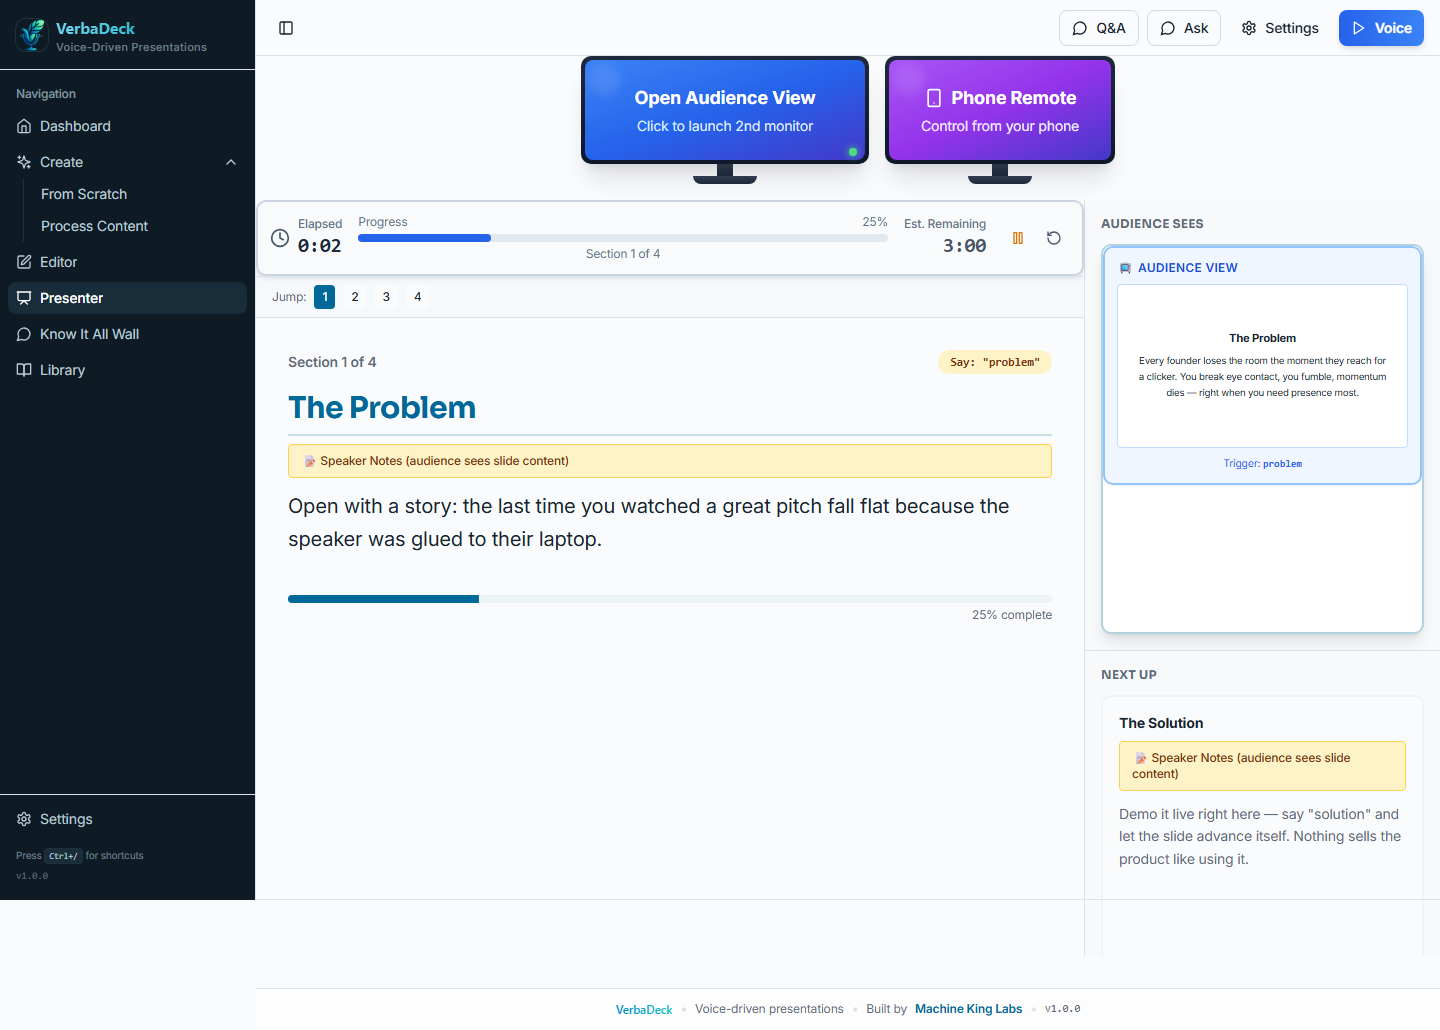
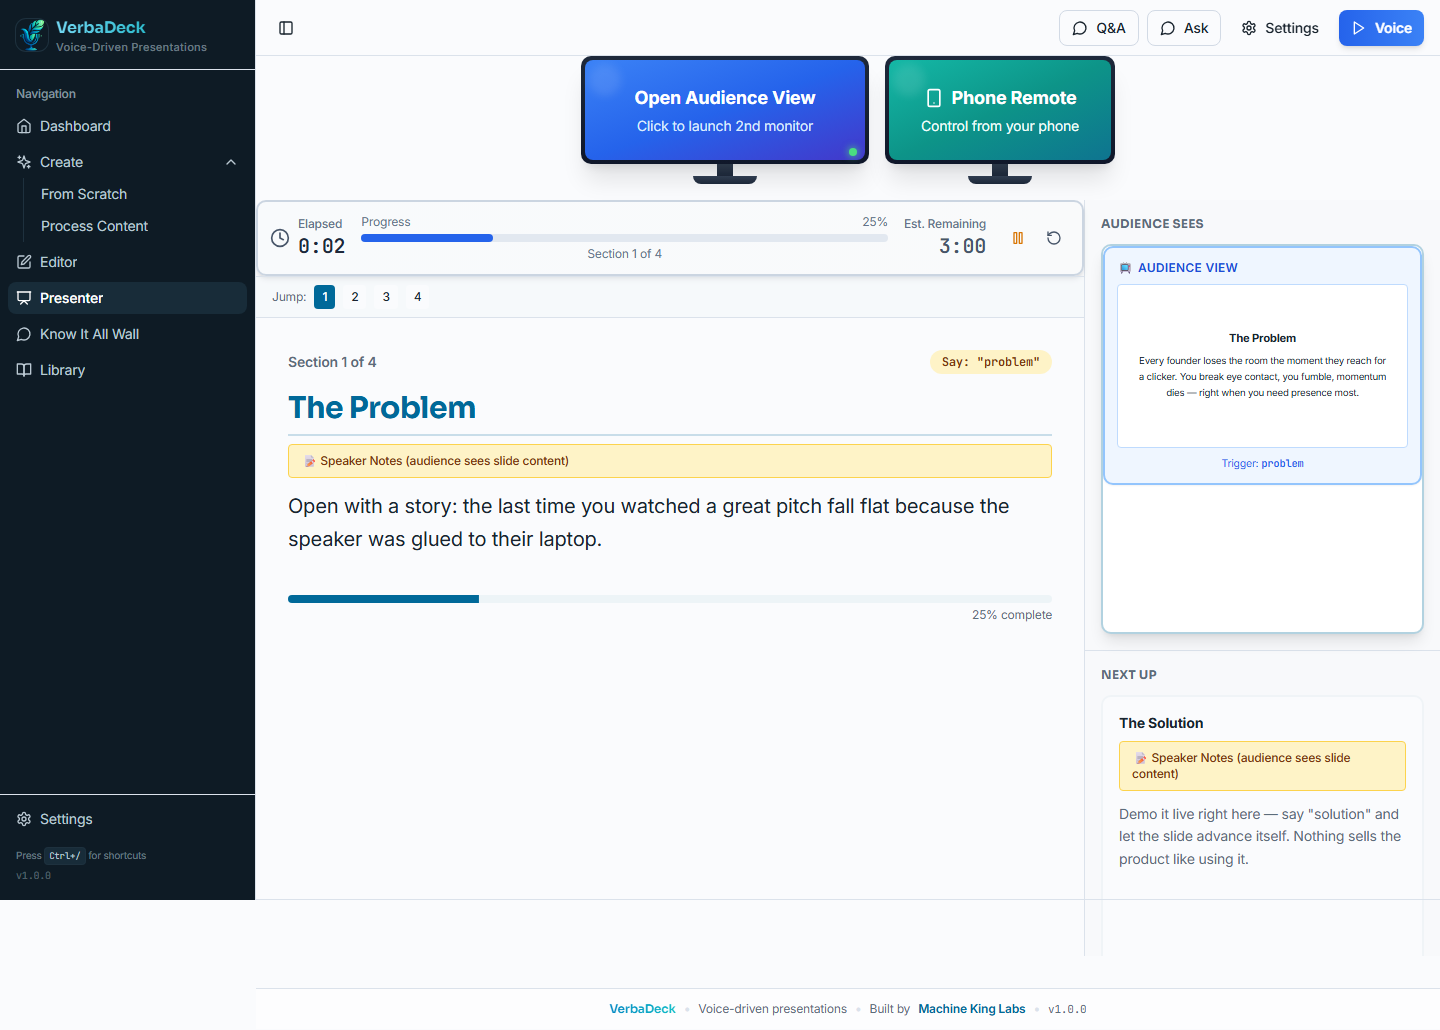
docs: log v1.0 polish (cinematic audience, faster load, brand/a11y) + refresh screenshots

diff --git a/docs/SHIPPING-LOG.md b/docs/SHIPPING-LOG.md
@@ -20,8 +20,12 @@
 - **A premium, refreshed interface.** A deep-contrast navigation rail, refined typography, real
   depth and a calmer, more focused home screen — VerbaDeck now looks the part on stage and in
   front of investors.
-- **Clearer identity throughout.** Consistent product naming and versioning across the app
-  (no more "internal tool" placeholder text).
+- **A cinematic audience display.** The projected slide now renders in a refined dark theme with
+  a soft brand glow — high-contrast, easy on the eyes in a dim room, and built to impress.
+- **Faster first load.** The app loads each section's code only when you open it, so the initial
+  screen appears noticeably quicker.
+- **Clearer identity throughout.** Consistent product naming and versioning, full brand-colour
+  consistency (no off-palette accents), and respect for your reduced-motion preference.
 
 ### 🐛 Fixed
 - **Reliable editor, presenter, and Q&A.** Squashed a batch of correctness bugs so deleting a